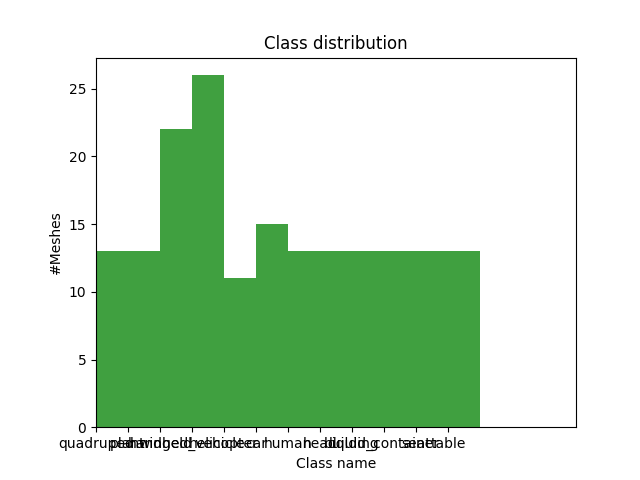
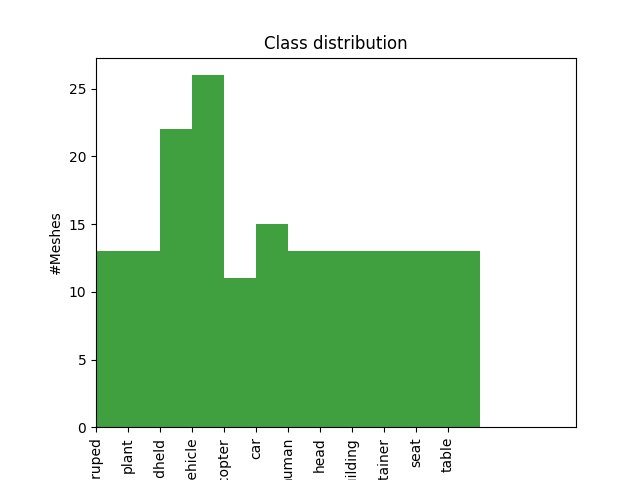
?

Changed region(s): [[0.0938, 0.9062, 0.7188, 1.0]]

diff --git a/evaluate.py b/evaluate.py
@@ -1,10 +1,14 @@
-from matplotlib.pyplot import yscale
-from numpy.lib.shape_base import dsplit
-from matplotlib.ticker import PercentFormatter
-import utils
-from sklearn.metrics import auc
-import numpy as np
+import random
+import time
+
 import matplotlib.pyplot as plt
+import numpy as np
+import pandas as pd
+from matplotlib.ticker import PercentFormatter
+from sklearn.metrics import auc
+
+import shaperetrieval
+import utils
 
 
 def evaluate_score(DB, metric):
@@ -24,20 +28,21 @@ def evaluate_score(DB, metric):
   for c in range(len(utils.classes)):
     metric_performance_class[c] /= len(DB[DB["class"] == c])
 
-  metric_performance_avg = metric_performance_avg /len(DB)
+  metric_performance_avg = metric_performance_avg / len(DB)
   return metric_performance_class, metric_performance_avg
+
 
 def evaluate_ktier(DB):
   # info = {"xlabel": }
   for c, value in enumerate(utils.classes):
     results = []
-    for query_result in DB.loc[DB["class"] == value, "similar_meshes" ]:
+    for query_result in DB.loc[DB["class"] == value, "similar_meshes"]:
       results.append(ktier(query_result, c))
 
-    plt.hist(results,  weights=np.ones(len(results)) / len(results))
+    plt.hist(results, weights=np.ones(len(results)) / len(results))
 
     plt.gca().yaxis.set_major_formatter(PercentFormatter(1))
-    plt.xlim(1,5)
+    plt.xlim(1, 5)
     plt.xlabel("Tier")
     plt.ylabel("Percentage returned in tier")
     plt.title("Percentage of total {} correctly returned in first five tiers".format(str(utils.classes[int(c)])))
@@ -46,7 +51,6 @@ def evaluate_ktier(DB):
     utils.ensure_dir(path)
     plt.savefig(path + "tierOfClass" + str(c) + '.png')
     plt.show()
-
 
 
 def ktier(query_result, class_value):
@@ -58,19 +62,21 @@ def ktier(query_result, class_value):
       return tier
   return tier
 
+
 def roc(correct_classes):
   sensitivities = []
   specificities = []
   for i in range(0, correct_classes.shape[1]):
-    TP = np.sum(correct_classes[:, :i]) #Correct objects returned in the query
-    FN = np.sum(correct_classes[:, i:]) #Correct objects not returned in the query
-    FP = correct_classes[:, :i].size - TP #Objects returned in the query that should not have been returned
-    TN = correct_classes[:, i:].size - FN #Objects not returned in the query that should indeed not be returned
+    TP = np.sum(correct_classes[:, :i])  # Correct objects returned in the query
+    FN = np.sum(correct_classes[:, i:])  # Correct objects not returned in the query
+    FP = correct_classes[:, :i].size - TP  # Objects returned in the query that should not have been returned
+    TN = correct_classes[:, i:].size - FN  # Objects not returned in the query that should indeed not be returned
     sensitivity = TP / (TP + FN)
     specificity = TN / (FP + TN)
     sensitivities.append(sensitivity)
     specificities.append(specificity)
   return sensitivities, specificities
+
 
 def roc_plots():
   df = utils.read_excel(original=False)
@@ -83,17 +89,17 @@ def roc_plots():
       class_rows = df.loc[df['class'] == shape_class]
       if len(class_rows) == 0:
         continue
-      distances  = class_rows[column]
+      distances = class_rows[column]
       correct_classes = np.array(list(distances.map(lambda shape: [1 if x[2] == shape_class else 0 for x in shape])))
       all_correct_classes.append(correct_classes)
       sensitivities, specificities = roc(correct_classes)
-      #Plot
+      # Plot
       lw = 2
       plt.plot(
-          specificities,
-          sensitivities,
-          lw=lw,
-          label=f"Class: {shape_class}, Area = {round(auc(sensitivities, specificities), 3)}",
+        specificities,
+        sensitivities,
+        lw=lw,
+        label=f"Class: {shape_class}, Area = {round(auc(sensitivities, specificities), 3)}",
       )
       plt.plot([0, 1], [1, 0], color="navy", lw=lw, linestyle="--")
       plt.xlim([0.0, 1.01])
@@ -105,14 +111,14 @@ def roc_plots():
       save_path = "our_roc"
     else:
       save_path = "ann_roc"
-    #Plot all classes in the same plot
+    # Plot all classes in the same plot
     plt.title("Receiver operating characteristic curve")
     path = F"{utils.eval_images_path}{save_path}_allclasses.png"
     utils.ensure_dir(path)
     plt.savefig(path, bbox_inches='tight')
     plot_data.append(all_correct_classes)
 
-  #plot average of all classes for ANN and Ours
+  # plot average of all classes for ANN and Ours
   plt.clf()
   plt.figure()
   for i, data in enumerate(plot_data):
@@ -134,5 +140,43 @@ def roc_plots():
     path = F"{utils.eval_images_path}{save_path}_avgallclasses.png"
     utils.ensure_dir(path)
     plt.savefig(path, bbox_inches='tight')
-# roc()
 
+
+def time_queries(runs=100):
+  ann_times = []
+  custom_times = []
+  df = utils.read_excel(original=False)
+  len_df = len(df.index)
+  u = shaperetrieval.load_map_neighbours("testmodels.ann", 106, 'euclidean')
+  for i in range(runs):
+    print(i)
+    random_number = random.randint(0, len_df - 1)
+    start = time.perf_counter()
+    shaperetrieval.find_similar_meshes(df.iloc[random_number])
+    end = time.perf_counter()
+    custom_times.append(end - start)
+    start = time.perf_counter()
+    u.get_nns_by_item(i, len_df, include_distances=True)
+    end = time.perf_counter()
+    ann_times.append(end - start)
+  return ann_times, custom_times
+
+
+def boxplot_queries(show=False):
+  plt.rcParams.update(plt.rcParamsDefault)
+  ann_times, custom_times = time_queries()
+  df = pd.DataFrame(columns=("Annoy", "Custom"))
+  df = df.assign(Annoy=ann_times, Custom=custom_times)
+  fig1, ax1 = plt.subplots()
+  ax1.set_title('Query times for Annoy and custom')
+  ax1.boxplot(df)
+  plt.xticks([1, 2], ["Annoy", "Custom"])
+  plt.ylabel("Time (seconds)")
+  plt.xlabel("Query method")
+  plt.savefig('./evalimages/querytimes.png' )
+  if show:
+    plt.show()
+
+boxplot_queries()
+
+# roc()

diff --git a/preprocess.py b/preprocess.py
@@ -1,11 +1,11 @@
 import numpy as np
-from numpy.lib.twodim_base import tri
 import trimesh
 import trimesh.grouping as grouping
-import main
+from scipy.stats import wasserstein_distance
+
 import subdivision
 import utils
-from scipy.stats import wasserstein_distance
+
 
 def scale_mesh(mesh, scale):
   # Make a vector to scale x, y and z in the mesh to this value
@@ -82,6 +82,7 @@ def fix_normals(mesh):
     print("fixing normals")
     trimesh.Trimesh.fix_normals(mesh)
 
+
 def translate_eigen(mesh):
   eig_vector_x, eig_vector_y, eig_vector_z = utils.eigen_xyz(mesh)
   for vertex in mesh.vertices:
@@ -105,26 +106,28 @@ def normalize_histogram_features(features):
 def sum_divide(x):
   return x / sum(x)
 
+
 def preprocess_single_mesh(mesh, row, show_subdivide=False, show_superdivide=False):
   # if not mesh.is_watertight:
-    #   print("--------------------------------------------------")
-    #   mesh = make_watertight(mesh)
-    #   if not mesh.is_watertight:
-    #     print("Make watertight operation failed")
-    #   else:
-    #     print("Successfully made mesh watertight")
-    if row['subsampled_outlier']:
-      mesh2 = subdivision.subdivide(mesh, utils.target_vertices)
-      if show_subdivide:
-        main.compare([mesh, mesh2])
-    elif row['supersampled_outlier']:
-      mesh2 = subdivision.superdivide(mesh, utils.target_faces)
-      if show_superdivide:
-        main.compare([mesh, mesh2])
-    else:
-      mesh2 = mesh
-    mesh2 = normalize_mesh(mesh2)
-    return mesh2
+  #   print("--------------------------------------------------")
+  #   mesh = make_watertight(mesh)
+  #   if not mesh.is_watertight:
+  #     print("Make watertight operation failed")
+  #   else:
+  #     print("Successfully made mesh watertight")
+  if row['subsampled_outlier']:
+    mesh2 = subdivision.subdivide(mesh, utils.target_vertices)
+    # if show_subdivide:
+    #   main.compare([mesh, mesh2])
+  elif row['supersampled_outlier']:
+    mesh2 = subdivision.superdivide(mesh, utils.target_faces)
+    # if show_superdivide:
+    #   main.compare([mesh, mesh2])
+  else:
+    mesh2 = mesh
+  mesh2 = normalize_mesh(mesh2)
+  return mesh2
+
 
 def process_all(show_subdivide=False, show_superdivide=False):
   # Perform all preprocessing steps on all meshes:
@@ -153,14 +156,15 @@ def process_all(show_subdivide=False, show_superdivide=False):
 
 def scalar_normalization(features):
   df = utils.read_excel(original=False)
-  y = (df[features]-df[features].mean())/df[features].std()
-  y = y.rename(columns=lambda x: x+"_norm")
+  y = (df[features] - df[features].mean()) / df[features].std()
+  y = y.rename(columns=lambda x: x + "_norm")
   df[y.columns] = y
   vectors = np.asarray([df[features].mean(), df[features].std()])
-  #Store the values used for normalization so we can normalize new query objects
+  # Store the values used for normalization so we can normalize new query objects
   with open(utils.norm_vector_path, 'wb') as f:
     np.save(f, vectors)
   utils.save_excel(df, original=False)
+
 
 def hist_distance_normalization():
   df = utils.read_excel(original=False)

diff --git a/main.py b/main.py
@@ -170,25 +170,26 @@ def main():
   # analyze.filter_database(utils.originalDB, utils.excelPath, utils.picklePath, features=False)
   # print("Preprocessing")
   # preprocess.process_all()
-  # print("Analyze 2")
-  # analyze.filter_database(utils.refinedDB, utils.refinedexcelPath, utils.refinedpicklePath)
-  # print("normalize")
-  # preprocess.normalize_histogram_features(utils.hist_features)
-  # preprocess.scalar_normalization(utils.scal_features)
-  # preprocess.hist_distance_normalization()
-  # print("Read Excel")
-  # originalDF = utils.read_excel(original=True)
-  # refinedDF = utils.read_excel(original=False)
-  # print("Save histograms")
-  # analyze.save_all_histograms(originalDF, utils.imagePath)
-  # analyze.save_all_histograms(refinedDF, utils.refinedImagePath, features=True)
-  # analyze.visualize_difference_features()
-  # shaperetrieval.save_similar_meshes()
-  # shaperetrieval.ann_distances_to_excel()
+  print("Analyze 2")
+  analyze.filter_database(utils.refinedDB, utils.refinedexcelPath, utils.refinedpicklePath)
+  print("normalize")
+  preprocess.normalize_histogram_features(utils.hist_features)
+  preprocess.scalar_normalization(utils.scal_features)
+  preprocess.hist_distance_normalization()
+  print("Read Excel")
+  originalDF = utils.read_excel(original=True)
+  refinedDF = utils.read_excel(original=False)
+  print("Save histograms")
+  analyze.save_all_histograms(originalDF, utils.imagePath)
+  analyze.save_all_histograms(refinedDF, utils.refinedImagePath, features=True)
+  analyze.visualize_difference_features()
+  shaperetrieval.save_similar_meshes()
+  shaperetrieval.ann_distances_to_excel()
   # save_figures('similar_meshes')
   # save_figures('ANN')
   write_html()
   evaluate.roc_plots()
+  evaluate.boxplot_queries()
   shaperetrieval.tsne()
   end_time = time.monotonic()
   print(timedelta(seconds=end_time - start_time))

diff --git a/utils.py b/utils.py
@@ -24,9 +24,9 @@ nr_bins_hist = 20
 hist_amount = 10000
 query_size = 5
 hist_features = ['A3', 'D1', 'D2', 'D3', 'D4']
-scal_features = ["area", "axis-aligned_bounding_box_distance", "diameter", "compactness", "eccentricity"]
+scal_features = ["area", "axis-aligned_bounding_box_distance", "diameter", "compactness", "eccentricity", "volume"]
 scal_features_norm = ["area_norm", "axis-aligned_bounding_box_distance_norm", "diameter_norm", "compactness_norm",
-                      "eccentricity_norm"]
+                      "eccentricity_norm", "volume_norm"]
 hist_features_norm = ["A3_norm", "D1_norm", "D2_norm", "D3_norm", "D4_norm"]
 norm_vector_path = "features/vector.npy"
 emd_norm_vector_path = "features/dist_vector.npy"

diff --git a/shaperetrieval.py b/shaperetrieval.py
@@ -1,5 +1,4 @@
 import numpy as np
-import numpy as np
 import pandas as pd
 import plotly.express as px
 import seaborn as sns
@@ -47,8 +46,8 @@ def load_map_neighbours(map_path, n_features, metric):
 
 def ann_distances_to_excel():
   df = utils.read_excel(False)
-  save_map_neighbours(105, "euclidean", n_trees=10000)
-  u = load_map_neighbours("testmodels.ann", 105, 'euclidean')
+  save_map_neighbours(106, "euclidean", n_trees=10000)
+  u = load_map_neighbours("testmodels.ann", 106, 'euclidean')
   df["ANN"] = ""
   for index, row in df.iterrows():
     tuple_list = []

diff --git a/analyze.py b/analyze.py
@@ -276,7 +276,7 @@ def save_histogram(data, info, path):
   else:
     bins = info["blocksize"]
   plt.hist(data, bins=bins, facecolor='g', alpha=0.75)
-  if info['column'] == 'class':
+  if 'column' in info and info['column'] == 'class':
     plt.xticks(rotation=90)
   plt.xlabel(info["xlabel"])
   plt.ylabel(info["ylabel"])
